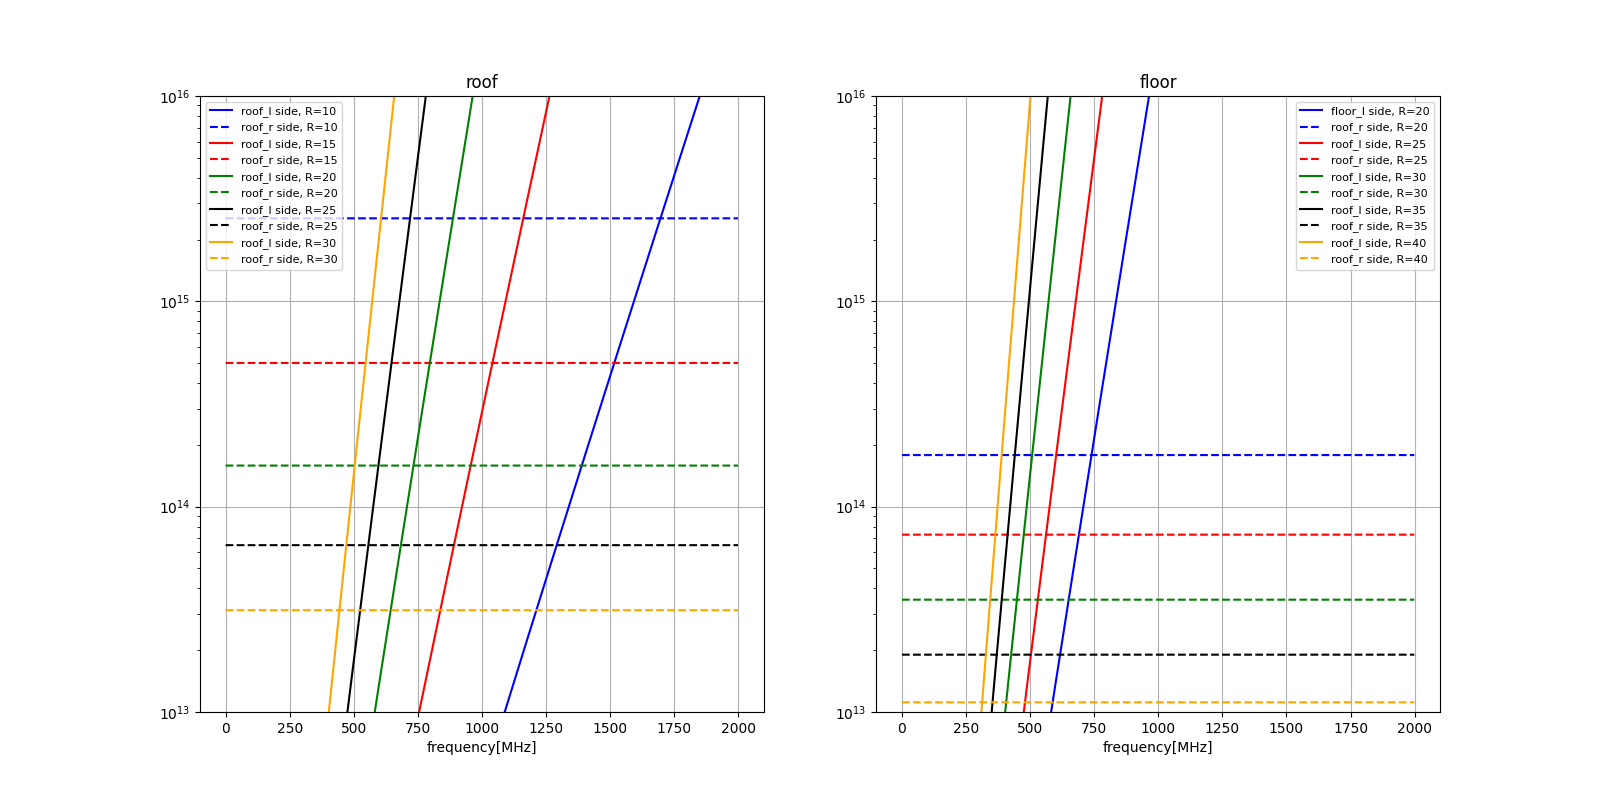
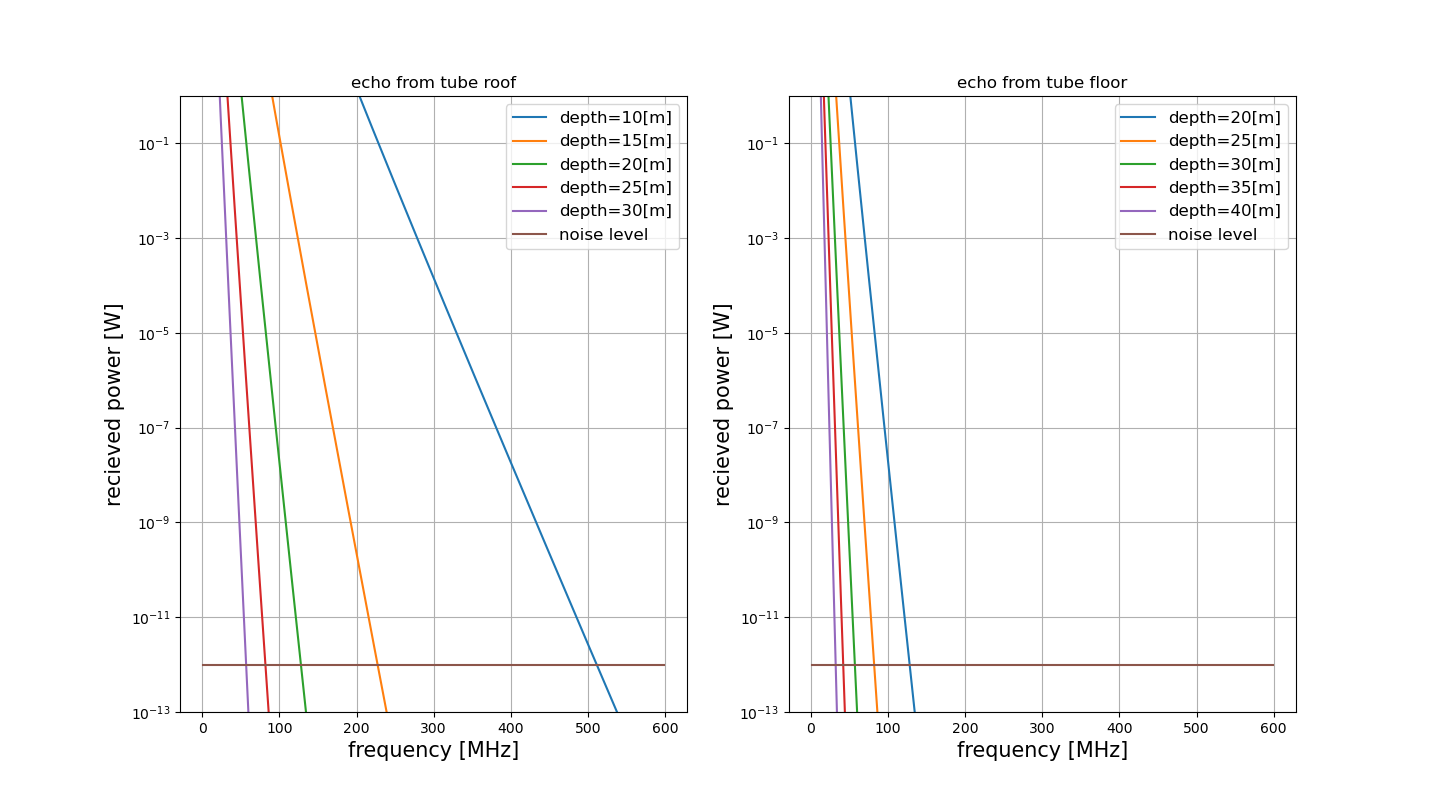
xの範囲変更

diff --git a/recieved_power.py b/recieved_power.py
@@ -14,7 +14,7 @@ RCS = 1.0
 P_t = 800 #[W]
 P_min = 1e-12 #[W]
 G_t = 1.64
-f = np.arange(1, 600, 1)
+f = np.arange(1, 1000, 1)
 #光速
 c = 299792458 #[m/s]
 #波長
@@ -84,8 +84,8 @@ P_f5 = P_t*G_t**2*(wavelength)**2/(4*np.pi)**3/R7**4 * RCS ** through**4 *reflec
 
 
 plt.figure(figsize=(16, 8))
-
-plt.subplot(1, 2, 1, title='roof')
+#天井のプロット
+plt.subplot(1, 2, 1, title='echo from tube roof')
 plt.plot(f, P_r1, label='depth='+str(R1)+'[m]')
 plt.plot(f, P_r2, label='depth='+str(R2)+'[m]')
 plt.plot(f, P_r3, label='depth='+str(R3)+'[m]')
@@ -93,14 +93,16 @@ plt.plot(f, P_r4, label='depth='+str(R4)+'[m]')
 plt.plot(f, P_r5, label='depth='+str(R5)+'[m]')
 plt.plot(f, noise, label='noise level')
 #グラフの体裁
+plt.xlim(0, 600)
 plt.ylim(10**(-13), 1)
 plt.yscale('log')
-plt.xlabel('frequency[MHz]')
-plt.ylabel('recieved power[W]')
+plt.xlabel('frequency [MHz]', fontsize=15)
+plt.ylabel('recieved power [W]', fontsize=15)
 plt.legend(fontsize = 12)
 plt.grid()
 
-plt.subplot(1, 2, 2, title='floor')
+#床のプロット
+plt.subplot(1, 2, 2, title='echo from tube floor')
 plt.plot(f, P_f1, label='depth='+str(R3)+'[m]')
 plt.plot(f, P_f2, label='depth='+str(R4)+'[m]')
 plt.plot(f, P_f3, label='depth='+str(R5)+'[m]')
@@ -108,10 +110,11 @@ plt.plot(f, P_f4, label='depth='+str(R6)+'[m]')
 plt.plot(f, P_f5, label='depth='+str(R7)+'[m]')
 plt.plot(f, noise, label='noise level')
 #グラフの体裁
+plt.xlim(0, 150)
 plt.ylim(10**(-13), 1)
 plt.yscale('log')
-plt.xlabel('frequency[MHz]')
-plt.ylabel('recieved power[W]')
+plt.xlabel('frequency [MHz]', fontsize=15)
+plt.ylabel('recieved power [W]', fontsize=15)
 plt.legend(fontsize = 12)
 plt.grid()
 
